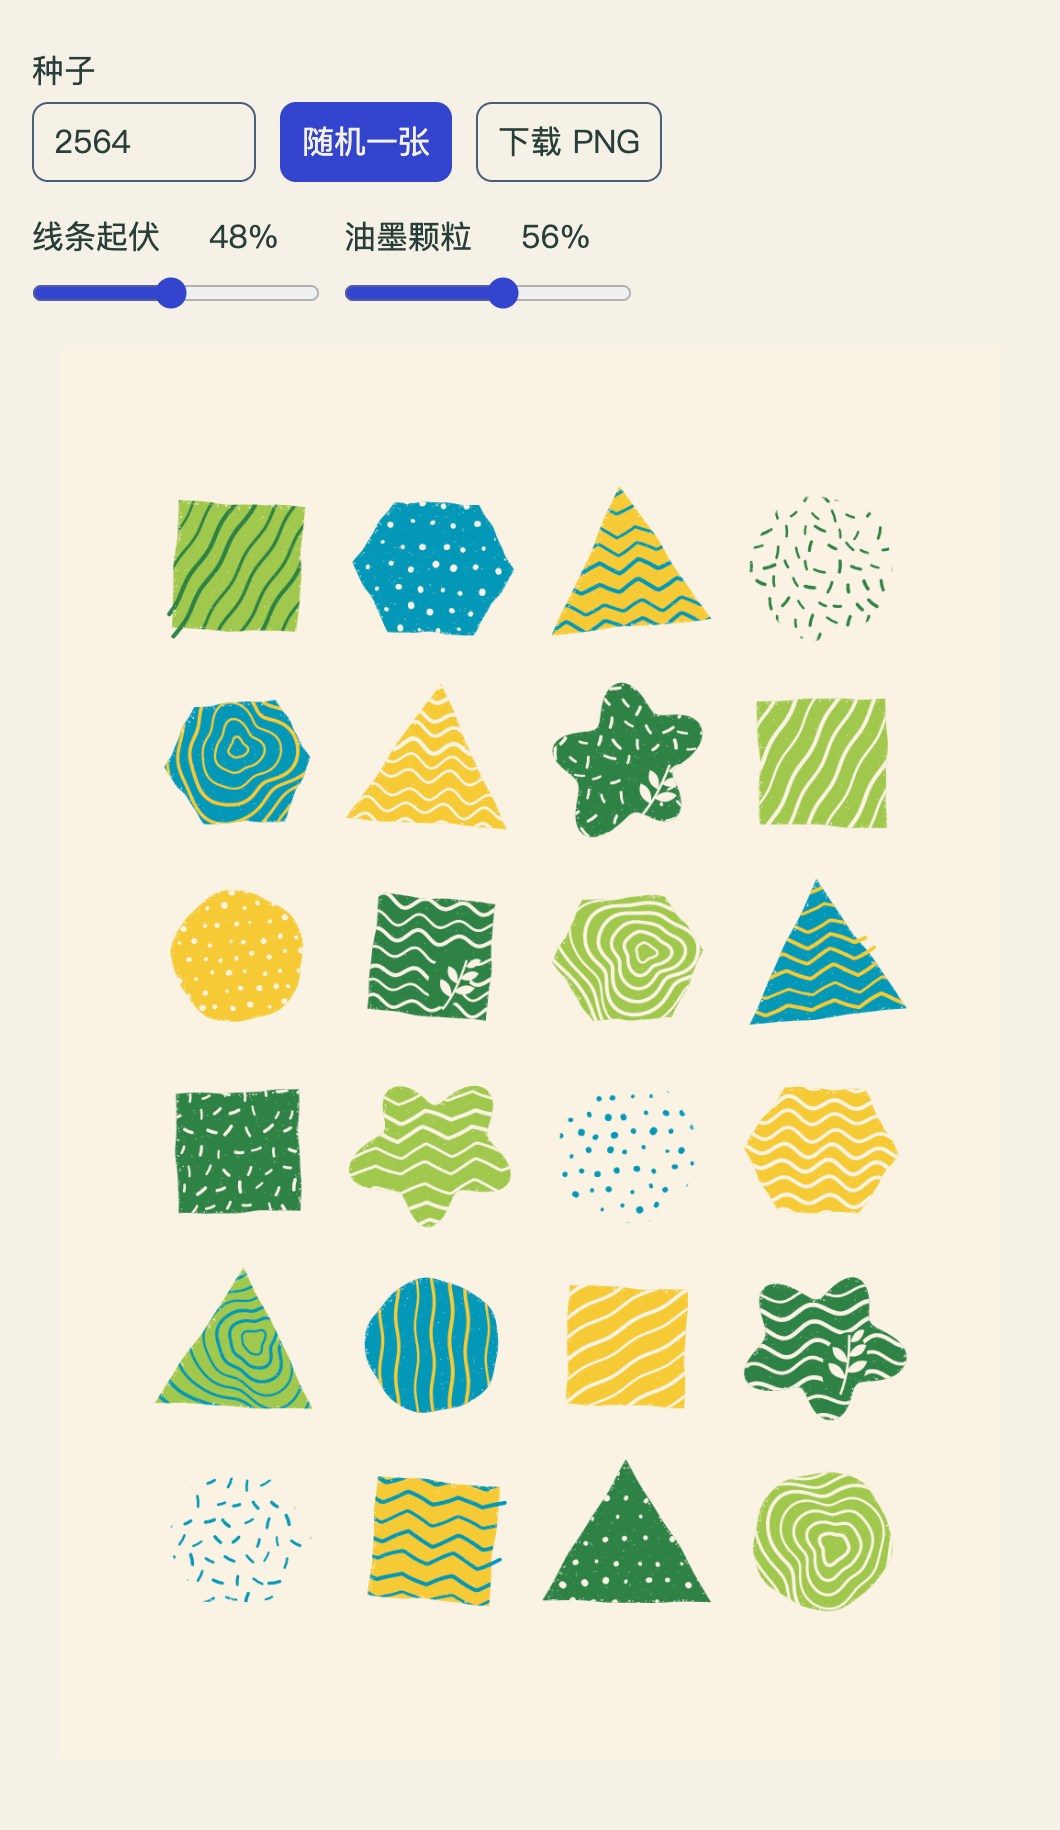
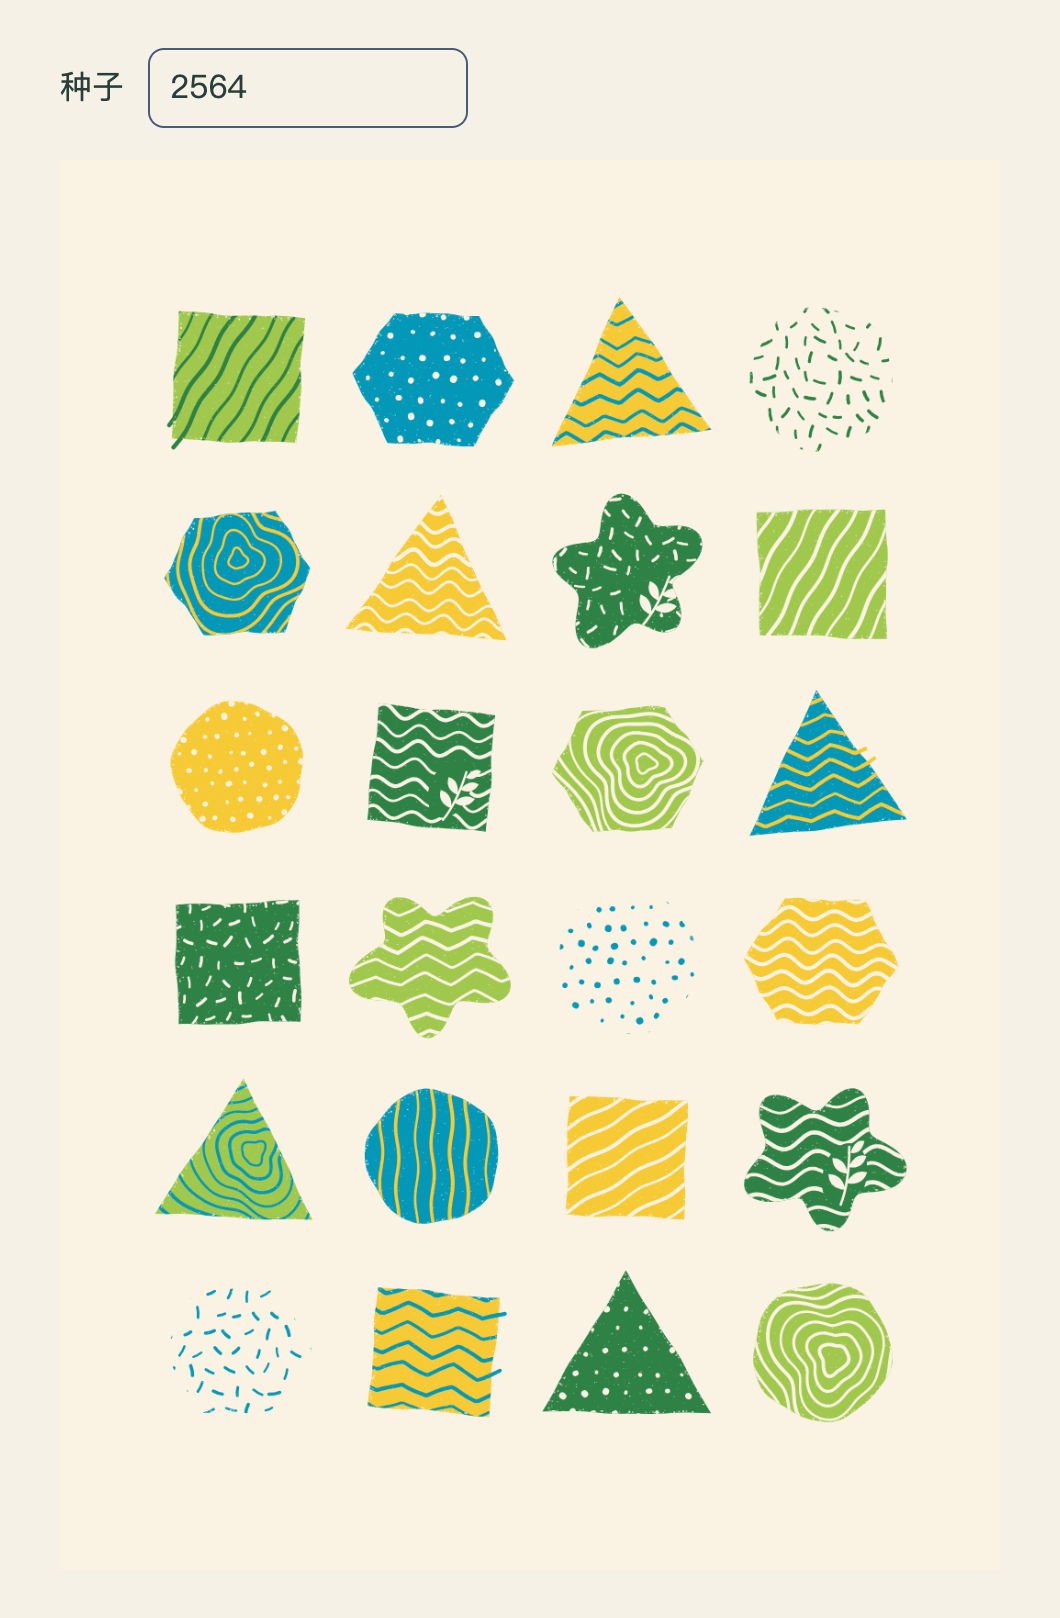
Simplify the preview to seed and poster

diff --git a/src/preview.js b/src/preview.js
@@ -8,65 +8,27 @@
   raster.width = canvas.width;
   raster.height = canvas.height;
   const context = raster.getContext('2d', { willReadFrequently: true });
-  const seedField = root.querySelector('[data-seed]');
+  const seedField = root.querySelector('#poster-seed');
   const status = root.querySelector('[data-status]');
-  const downloadButton = root.querySelector('[data-export]');
-  const sliders = [...root.querySelectorAll('[data-setting]')];
   const { defaults, drawPoster } = globalThis.NiltaviBanner;
 
-  function readings() {
-    return {
-      seed: seedField.value.trim() || defaults.seed,
-      ...Object.fromEntries(sliders.map(slider => [slider.dataset.setting, Number(slider.value)])),
-    };
-  }
-
   let redraw;
-  function paint(values) {
-    drawPoster(context, values);
-    preview.drawImage(raster, 0, 0);
-  }
-
-  function update() {
-    const values = readings();
-    sliders.forEach(slider => {
-      root.querySelector('[data-value="' + slider.dataset.setting + '"]').textContent = slider.value + '%';
-    });
+  function update(event) {
+    if (event?.isComposing) return;
+    const seed = seedField.value.trim() || defaults.seed;
     cancelAnimationFrame(redraw);
-    redraw = requestAnimationFrame(() => paint(values));
+    redraw = requestAnimationFrame(() => {
+      drawPoster(context, { seed });
+      preview.drawImage(raster, 0, 0);
+    });
   }
 
-  function announce() {
-    status.textContent = '图案已更新，种子 ' + readings().seed;
-  }
-
-  root.querySelector('[data-shuffle]').addEventListener('click', () => {
-    const randomBytes = crypto.getRandomValues(new Uint32Array(1));
-    seedField.value = randomBytes[0].toString(36);
-    update();
-    announce();
-  });
   seedField.addEventListener('input', update);
-  seedField.addEventListener('change', announce);
-  sliders.forEach(slider => {
-    slider.addEventListener('input', update);
-    slider.addEventListener('change', announce);
-  });
-  downloadButton.addEventListener('click', () => {
-    const values = readings();
-    paint(values);
-    raster.toBlob(blob => {
-      if (!blob) return;
-      const url = URL.createObjectURL(blob);
-      const anchor = document.createElement('a');
-      const filenameSeed = values.seed.replace(/[^\p{L}\p{N}_-]+/gu, '-').slice(0, 48);
-      anchor.href = url;
-      anchor.download = 'screenprint-' + (filenameSeed || defaults.seed) + '.png';
-      anchor.click();
-      setTimeout(() => URL.revokeObjectURL(url), 1000);
-    }, 'image/png');
+  seedField.addEventListener('compositionend', update);
+  seedField.addEventListener('change', () => {
+    seedField.value = seedField.value.trim() || defaults.seed;
+    status.textContent = '图案已更新，种子 ' + seedField.value;
   });
   seedField.value = defaults.seed;
-  sliders.forEach(slider => { slider.value = defaults[slider.dataset.setting]; });
   update();
 })();

diff --git a/src/preview.css b/src/preview.css
@@ -5,14 +5,12 @@
   --color-throat-975: oklch(0.186 0.038 266.6);
   --color-niltava-700: oklch(0.472 0.211 270.0);
   --color-niltava-300: oklch(0.812 0.094 259.9);
-  --color-niltava-975: oklch(0.185 0.087 275.6);
   --color-slate-300: oklch(0.811 0.036 254.9);
   --color-slate-700: oklch(0.472 0.051 254.9);
   --font-sans: "DM Sans", "PingFang SC", "Microsoft YaHei", system-ui, sans-serif;
   --background: light-dark(var(--color-paper), var(--color-throat-975));
   --foreground: light-dark(var(--color-ink), var(--color-paper));
   --accent: light-dark(var(--color-niltava-700), var(--color-niltava-300));
-  --accent-foreground: light-dark(var(--color-paper), var(--color-niltava-975));
   --border: light-dark(var(--color-slate-700), var(--color-slate-300));
   color-scheme: light dark;
   background-color: var(--background);
@@ -37,21 +35,14 @@ main {
 @media (min-width: 1200px) { main { max-width: 1140px; } }
 @media (min-width: 1400px) { main { max-width: 1320px; } }
 
-.print-actions, .print-adjustments {
-  display: flex;
-  flex-wrap: wrap;
-  align-items: end;
-  gap: 0.75rem;
-}
+.seed-field, canvas { justify-self: center; width: min(100%, 470px); }
 
-.form-label { display: grid; gap: 0.25rem; grid-template-columns: auto auto; }
-.form-label input { grid-column: 1 / -1; }
-.form-control { width: 7rem; }
-.form-range { width: 9rem; max-width: 100%; min-height: 1.5rem; margin: 0; accent-color: var(--accent); }
-output { font-variant-numeric: tabular-nums; }
+.seed-field { display: flex; align-items: center; gap: 0.75rem; }
 
-.button, .form-control {
+.seed-field input {
   box-sizing: border-box;
+  width: 10rem;
+  min-width: 0;
   min-height: 2.5rem;
   padding: 0 0.625rem;
   border: 1px solid var(--border);
@@ -59,14 +50,9 @@ output { font-variant-numeric: tabular-nums; }
   background: var(--background);
   color: inherit;
   font: inherit;
+  font-variant-numeric: tabular-nums;
 }
 
-.button--primary {
-  border-color: var(--accent);
-  background: var(--accent);
-  color: var(--accent-foreground);
-}
-
-:where(button, input):focus-visible { outline: 2px solid var(--accent); outline-offset: 2px; }
-canvas { display: block; justify-self: center; width: min(100%, 470px); height: auto; }
+.seed-field input:focus-visible { outline: 2px solid var(--accent); outline-offset: 2px; }
+canvas { display: block; height: auto; }
 .sr-only { position: absolute; width: 1px; height: 1px; overflow: hidden; clip-path: inset(50%); }

diff --git a/index.html b/index.html
@@ -11,20 +11,9 @@
 </head>
 <body>
 <main id="screenprint-patterns">
-  <div class="print-actions">
-    <label class="form-label">种子
-      <input class="form-control" data-seed type="text" value="2564" maxlength="48" size="12" spellcheck="false" aria-label="种子">
-    </label>
-    <button class="button button--primary" type="button" data-shuffle>随机一张</button>
-    <button class="button" type="button" data-export>下载 PNG</button>
-  </div>
-  <div class="print-adjustments">
-    <label class="form-label">线条起伏 <output data-value="wobble">48%</output>
-      <input class="form-range" data-setting="wobble" type="range" min="0" max="100" value="48" aria-label="线条起伏">
-    </label>
-    <label class="form-label">油墨颗粒 <output data-value="grain">56%</output>
-      <input class="form-range" data-setting="grain" type="range" min="0" max="100" value="56" aria-label="油墨颗粒">
-    </label>
+  <div class="seed-field">
+    <label for="poster-seed">种子</label>
+    <input id="poster-seed" type="text" maxlength="48" autocomplete="off" spellcheck="false">
   </div>
   <canvas data-poster width="1024" height="1536" role="img" aria-label="暖白底、四列六行的手绘几何图案海报"></canvas>
   <span class="sr-only" data-status aria-live="polite"></span>

diff --git a/docs/en/for-agents.md b/docs/en/for-agents.md
@@ -1,6 +1,6 @@
 # For Agents
 
-Open the repository's `index.html` directly in a modern browser. Change the seed to explore other compositions, then adjust stroke wobble and ink grain independently. The PNG export contains the artwork at 1024 × 1536.
+Open the repository's `index.html` directly in a modern browser and enter a seed. The 1024 × 1536 preview updates as you type.
 
 ## Render in another project
 
@@ -18,7 +18,7 @@ drawPoster(canvas.getContext('2d', { willReadFrequently: true }), {
 });
 ```
 
-`wobble` and `grain` accept numbers from 0 to 100. The renderer supports any positive canvas dimensions with a 2:3 aspect ratio. For predictable raster output, reuse the same renderer revision, browser and context settings. Antialiasing can vary across browsers.
+`wobble` and `grain` accept numbers from 0 to 100 and default to 48 and 56. The renderer supports any positive canvas dimensions with a 2:3 aspect ratio. Use `canvas.toBlob(callback, 'image/png')` to export the canvas. For predictable raster output, reuse the same renderer revision, browser and context settings. Antialiasing can vary across browsers.
 
 `createPosterLayout(seed)` returns the motif plan in row order without requiring a canvas. Node scripts can import the plan with `require('./src/screenprint.js')`.
 
@@ -30,4 +30,4 @@ Run the built-in Node tests from the repository root.
 node --test
 ```
 
-Open `index.html`, try both sliders and **随机一张**, then use **下载 PNG** and compare the result with the preview.
+Open `index.html`, type a different seed, and check that the poster changes. Enter the original seed again to check that it restores the original poster.

diff --git a/README.md b/README.md
@@ -2,11 +2,11 @@
 
 [简体中文](docs/README.zh-CN.md)
 
-Niltavi Banner generates screen-print-style geometric artwork for Niltavi projects. A seed fixes the 24-motif composition. Stroke variation and ink grain can be tuned independently.
+Niltavi Banner generates screen-print-style geometric artwork for Niltavi projects. A seed fixes the 24-motif composition.
 
-Open [index.html](index.html) from a local checkout to try the generator and export a 1024 × 1536 PNG. The preview runs offline in a modern browser. See the [integration guide](docs/en/for-agents.md) to render posters in another project or run the checks.
+Open [index.html](index.html) from a local checkout and enter a seed to see the result. The preview runs offline in a modern browser. See the [integration guide](docs/en/for-agents.md) to render posters in another project or run the checks.
 
-<img src="docs/assets/generator-preview.png" width="530" alt="Niltavi Banner preview with seed and texture controls above a four-column, six-row geometric poster" />
+<img src="docs/assets/generator-preview.png" width="530" alt="Niltavi Banner preview, with seed 2564 above its four-column, six-row poster" />
 
 Licensed under [MIT](LICENSE).
 

diff --git a/docs/README.zh-CN.md b/docs/README.zh-CN.md
@@ -2,11 +2,11 @@
 
 [English](../README.md)
 
-Niltavi Banner 为 Niltavi 项目生成带丝网印刷肌理的几何图案。种子决定 24 个图案的组合，线条起伏和油墨颗粒可以单独调节。
+Niltavi Banner 为 Niltavi 项目生成带丝网印刷肌理的几何图案。种子决定 24 个图案的组合。
 
-在本地仓库打开 [index.html](../index.html)，即可离线预览并导出 1024 × 1536 PNG。要在其他项目中生成海报或运行测试，可查阅[集成指南](en/for-agents.md)。
+在本地仓库打开 [index.html](../index.html)，输入种子即可离线预览结果。要在其他项目中生成海报或运行测试，可查阅[集成指南](en/for-agents.md)。
 
-<img src="assets/generator-preview.png" width="530" alt="Niltavi Banner 预览，上方是种子和纹理控件，下方是四列六行的几何图案海报" />
+<img src="assets/generator-preview.png" width="530" alt="Niltavi Banner 预览，种子 2564 下方是对应的四列六行几何图案海报" />
 
 项目采用 [MIT](../LICENSE) 许可。
 

diff --git a/AGENTS.md b/AGENTS.md
@@ -2,4 +2,4 @@
 
 Before editing, load the [Niltavi project Skill](.agents/skills/niltavi-project/SKILL.md) and follow it to read the current [Niltavi Rules](https://github.com/niltavi/niltavi-rules#readme), [Niltavi Skills](https://github.com/niltavi/niltavi-skills#readme), and [Niltavi UI](https://github.com/niltavi/niltavi-ui#readme).
 
-Keep the rendering engine independent of the preview DOM and external services. Preserve the artwork produced by existing seeds unless the change intentionally updates it. Verify any rendering change with the commands in the [integration guide](docs/en/for-agents.md), then open `index.html` and check PNG export.
+Keep the rendering engine independent of the preview DOM and external services. Preserve the artwork produced by existing seeds unless the change intentionally updates it. Verify rendering and preview changes using the [integration guide](docs/en/for-agents.md).
